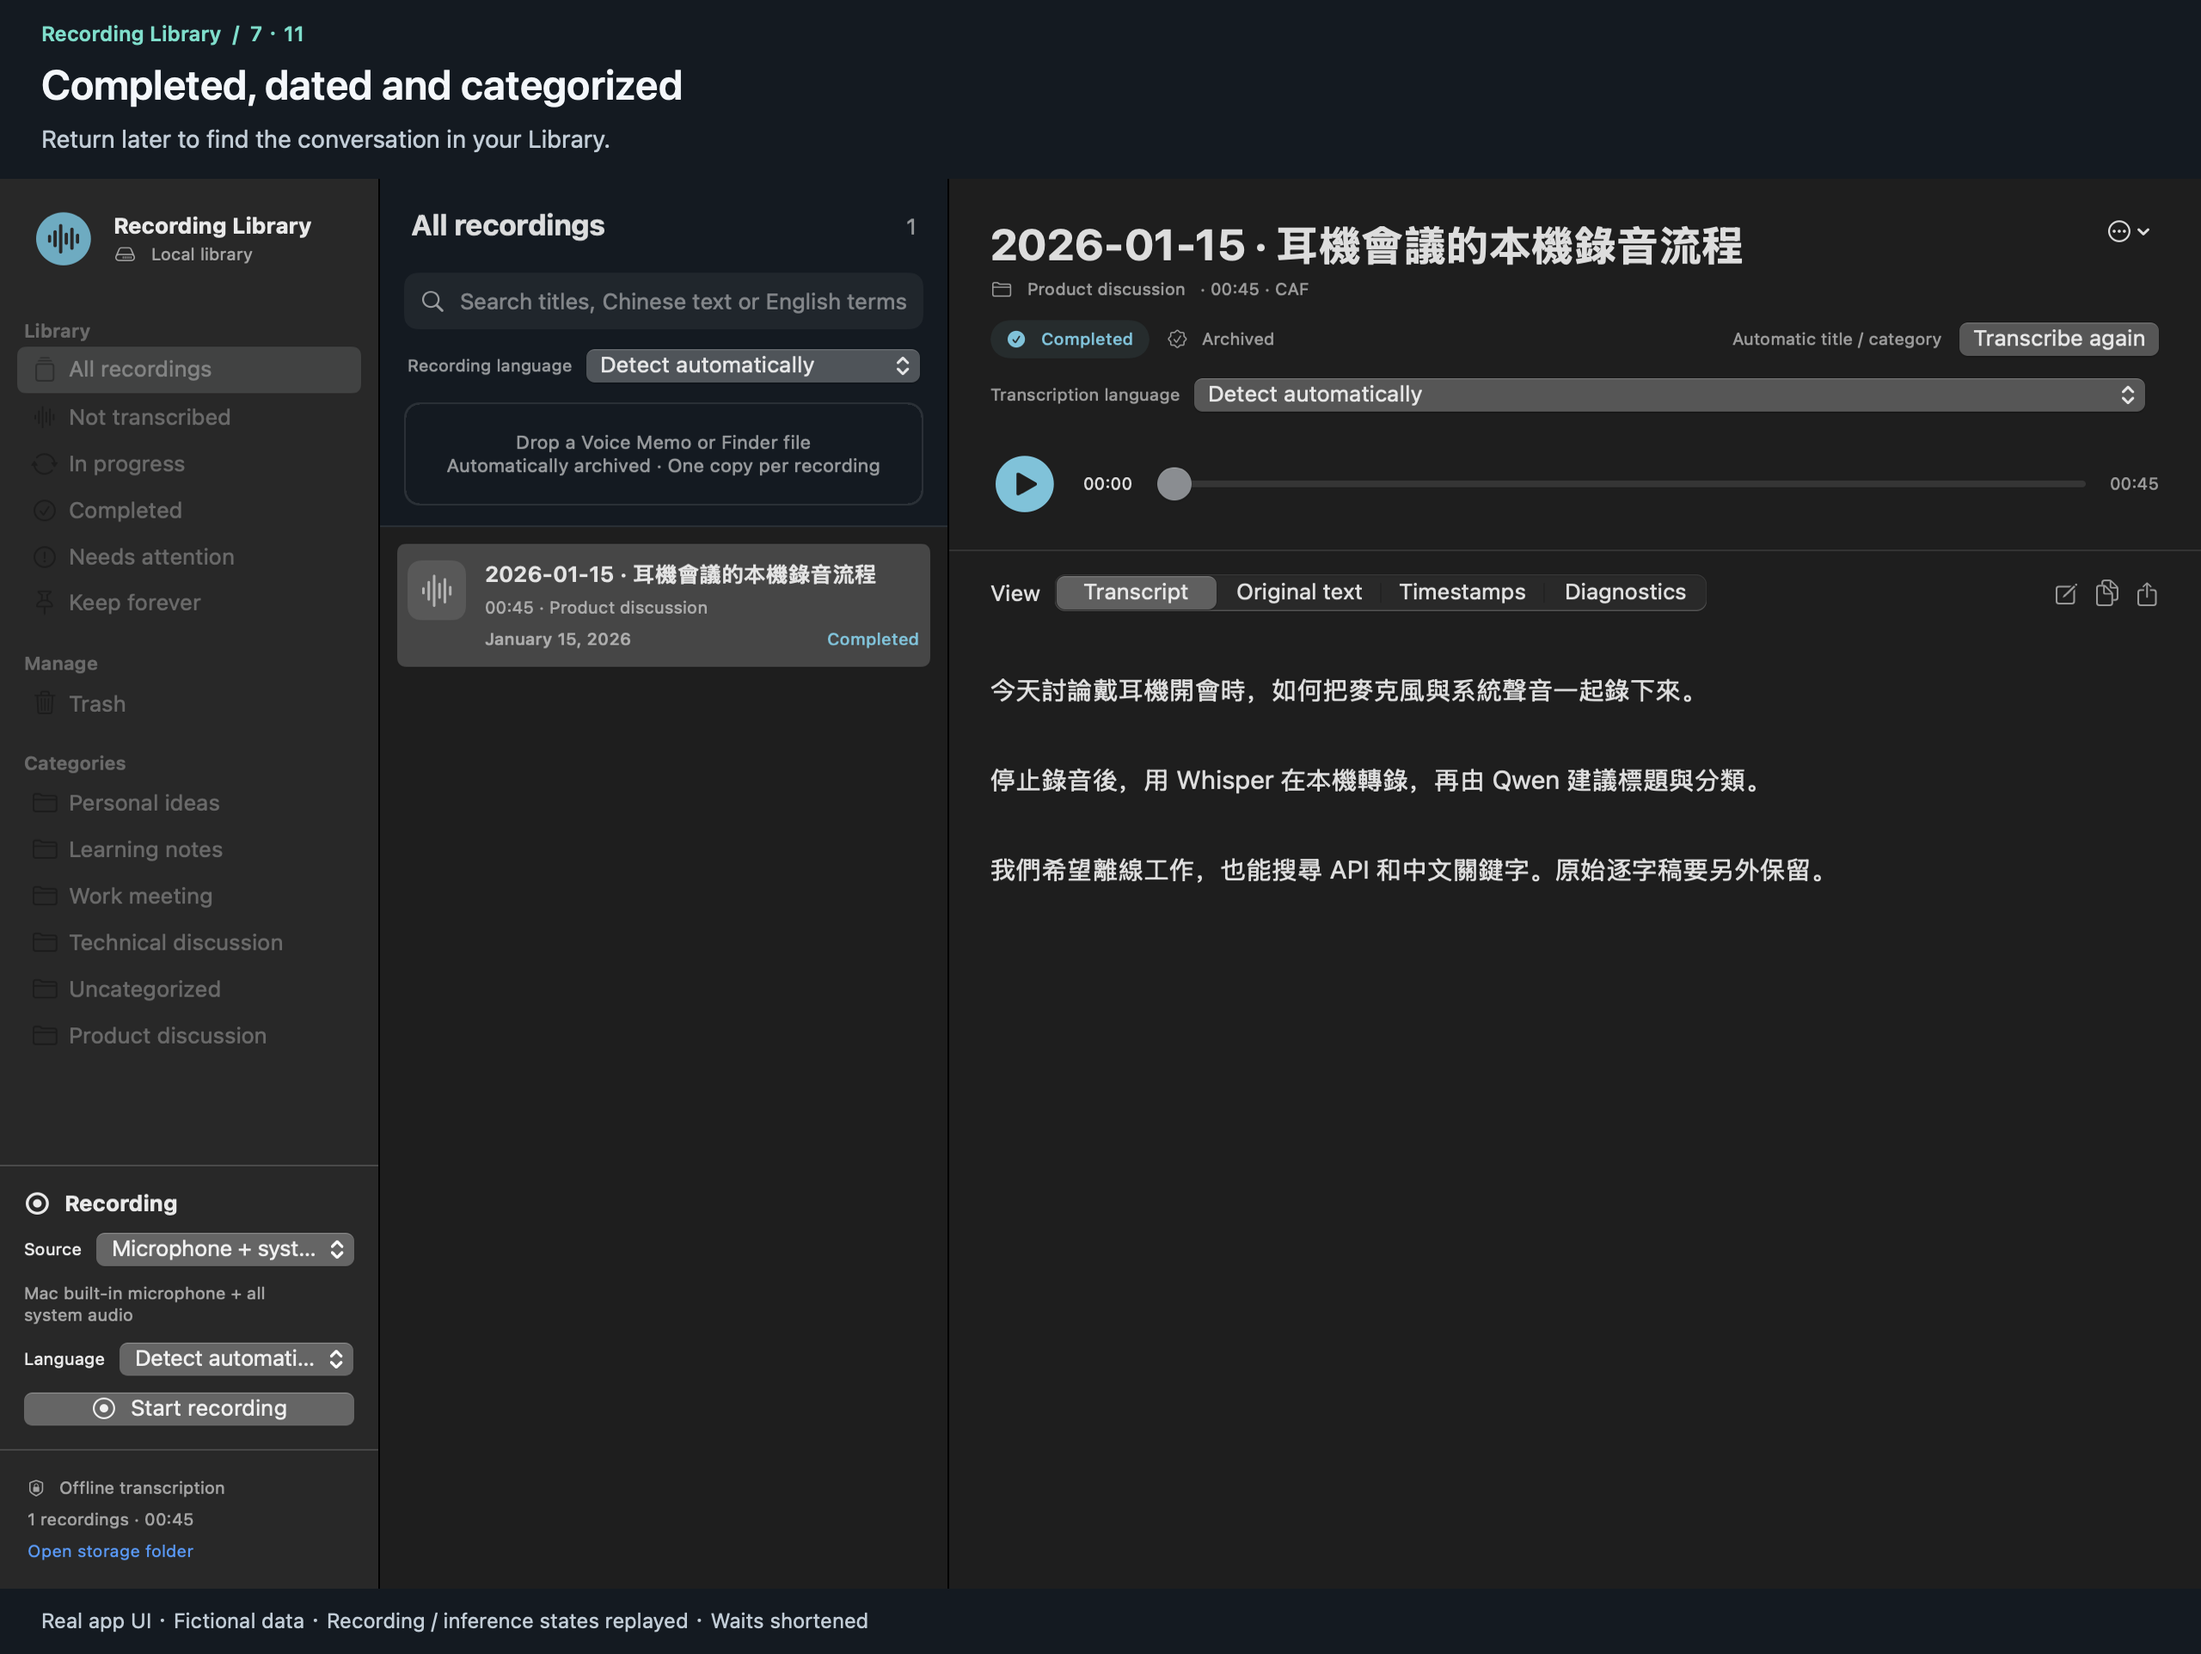
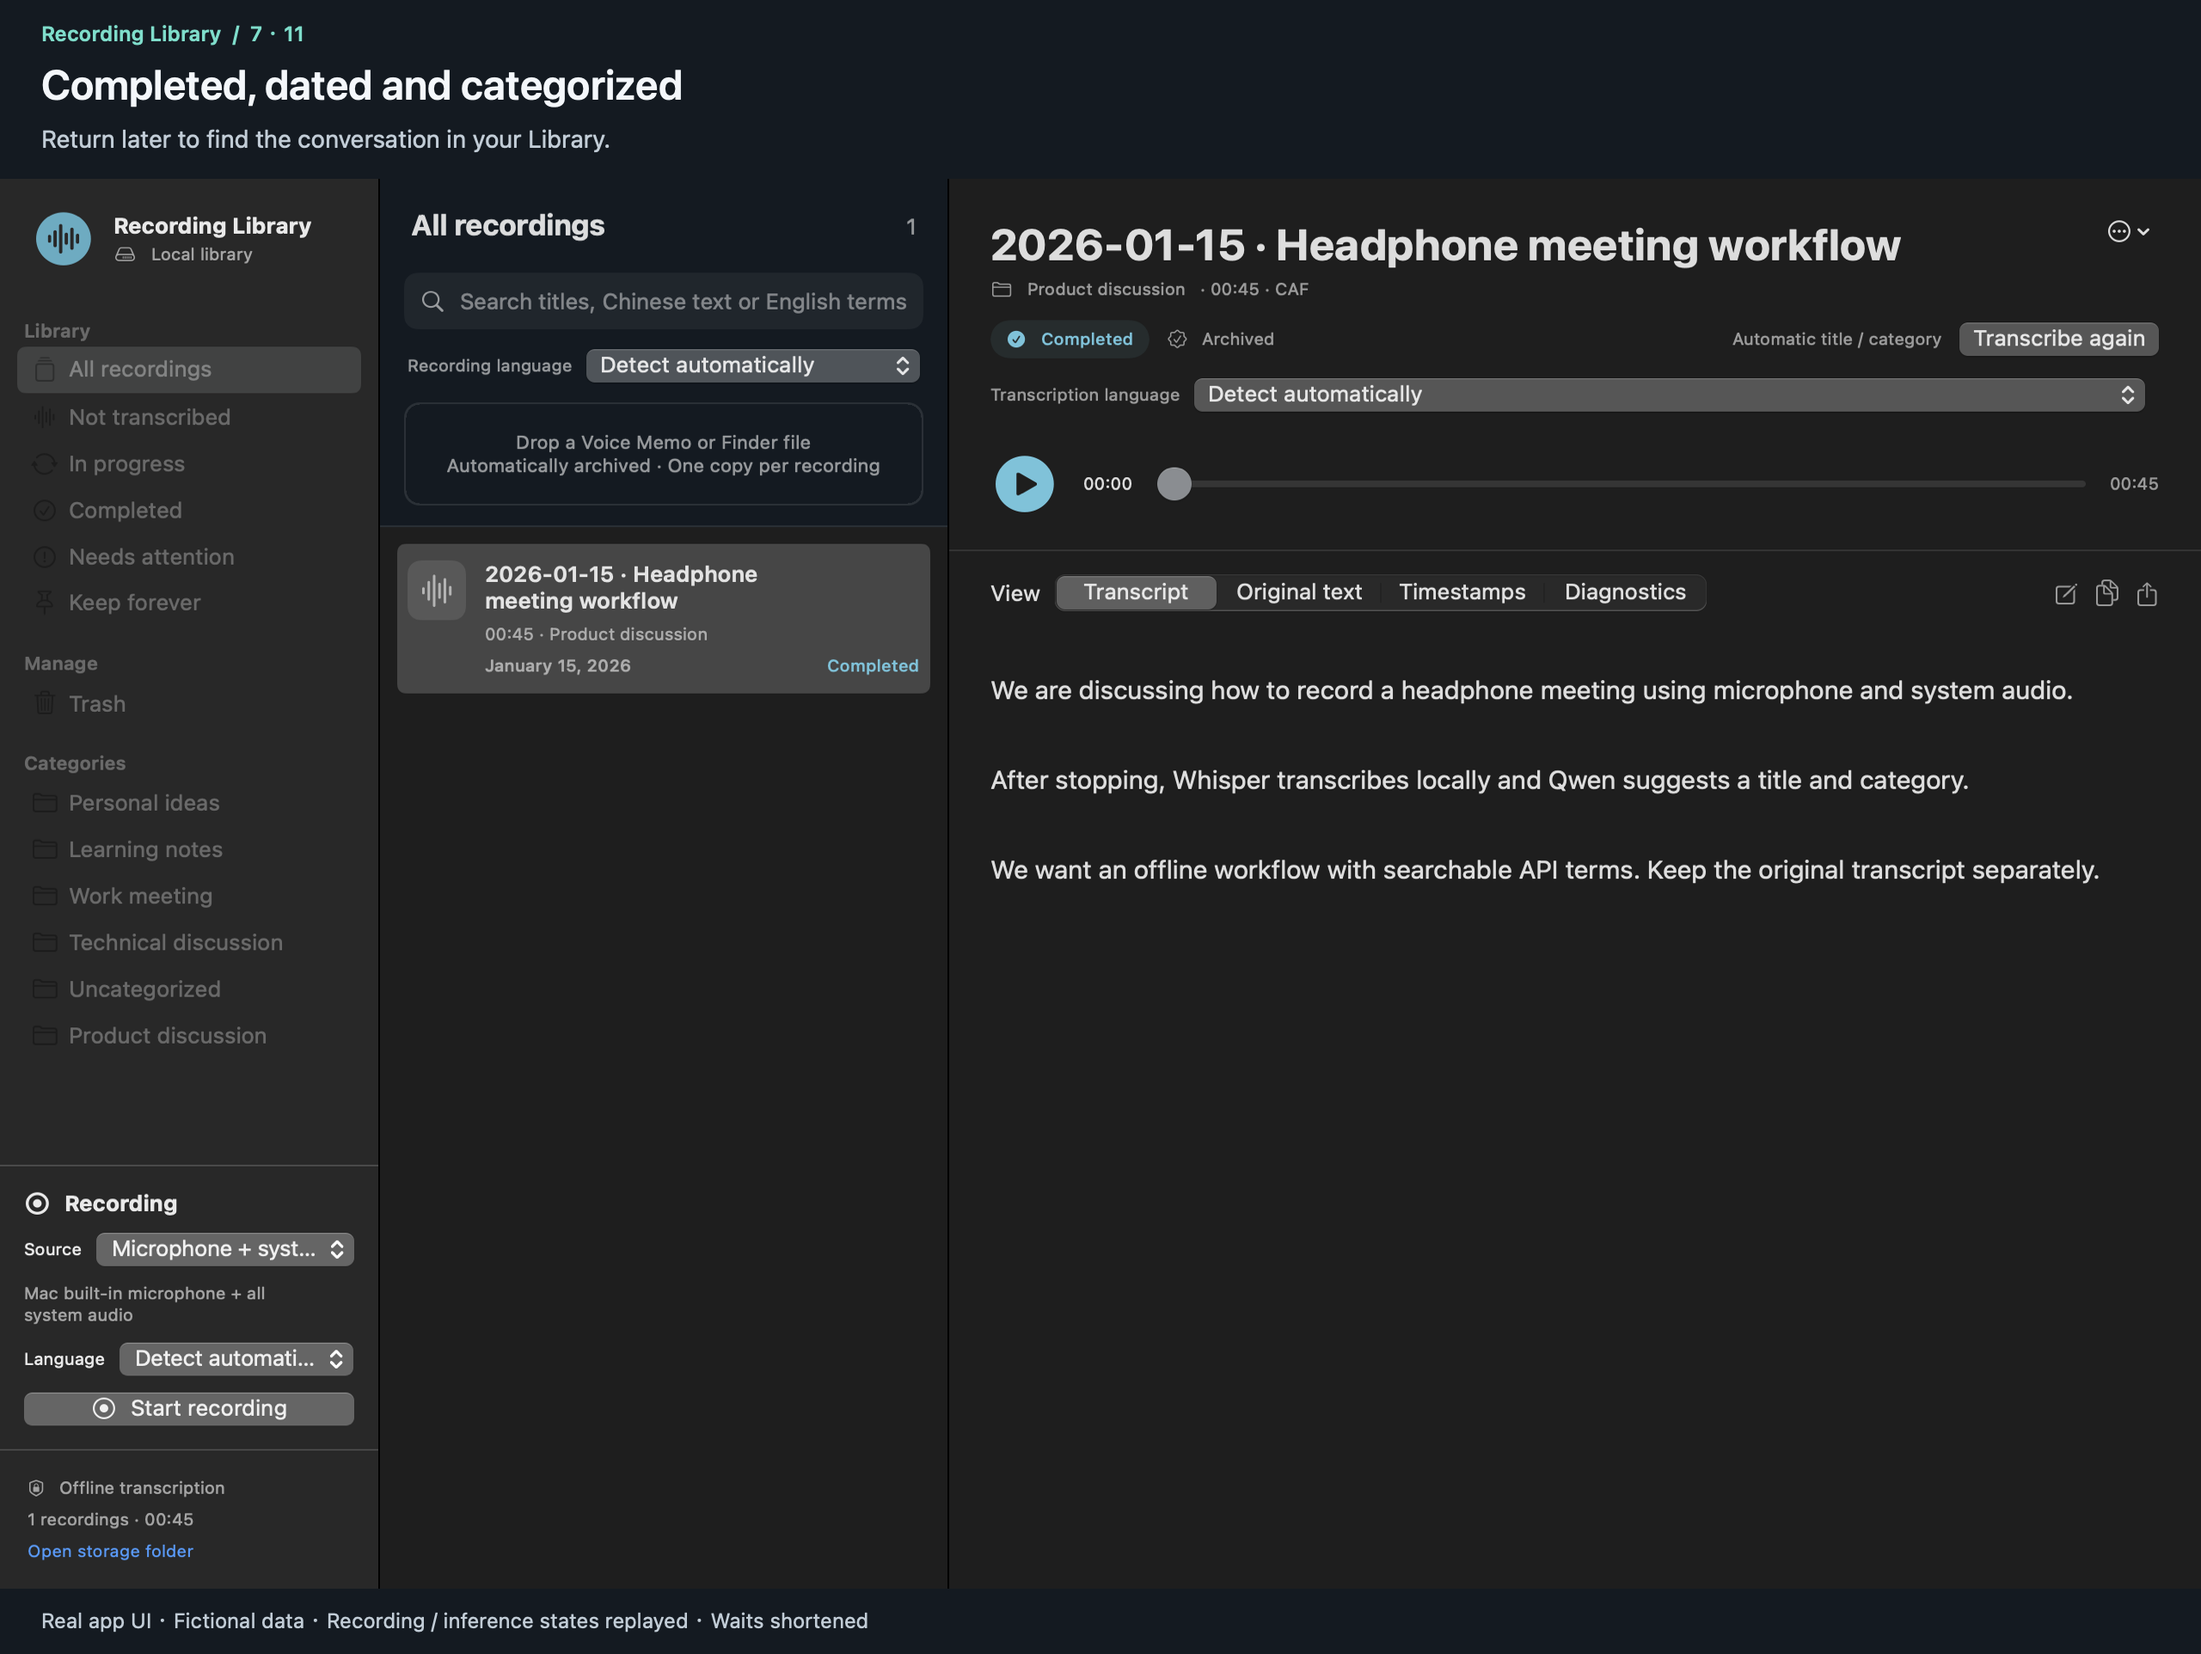
Use English-only fixture content in the English workflow GIF

Changed region(s): [[0.1875, 0.343, 0.9375, 0.4366], [0.4375, 0.4678, 0.9375, 0.5301], [0.5625, 0.1247, 0.875, 0.1559]]

diff --git a/Scripts/WorkflowCapture.swift b/Scripts/WorkflowCapture.swift
@@ -33,11 +33,16 @@ import AVFoundation
     let host:NSHostingView<AnyView>
     var input:FixtureInput?
     var frames:[String]=[]
-    let lines=[
+    var english:Bool {Bundle.main.preferredLocalizations.first == "en"}
+    var lines:[String] {english ? [
+        "We are discussing how to record a headphone meeting using microphone and system audio.",
+        "After stopping, Whisper transcribes locally and Qwen suggests a title and category.",
+        "We want an offline workflow with searchable API terms. Keep the original transcript separately."
+    ] : [
         "今天討論戴耳機開會時，如何把麥克風與系統聲音一起錄下來。",
         "停止錄音後，用 Whisper 在本機轉錄，再由 Qwen 建議標題與分類。",
         "我們希望離線工作，也能搜尋 API 和中文關鍵字。原始逐字稿要另外保留。"
-    ]
+    ]}
     init(root:URL) throws {
         self.root=root
         guard root.path.contains("/.build/workflow."), !FileManager.default.fileExists(atPath:root.path) else {throw LibraryError("Capture requires a fresh isolated .build/workflow directory")}
@@ -79,7 +84,7 @@ import AVFoundation
         await capture.finishForTermination()
         guard var record=engine.recordings.first else {throw LibraryError("Synthetic recording was not archived: "+(capture.errorMessage ?? ""))}
         capture=CaptureController(engine:engine,permission:{true})
-        record.title="2026-01-15 錄音 10-00-00"
+        record.title=english ? "2026-01-15 Recording 10-00-00" : "2026-01-15 錄音 10-00-00"
         record.recordedAt=ISO8601DateFormatter().date(from:"2026-01-15T02:00:00Z")
         record.created=record.recordedAt!
         var attempt=Attempt();attempt.status="running";attempt.loadingMode="incremental";attempt.language="auto"
@@ -100,12 +105,13 @@ import AVFoundation
         record.metadataAttempts=[metadata];try save(record)
         engine.activity="整理標題與分類"
         try await shot("06-naming",selection:record.id)
-        record.title="2026-01-15 · 耳機會議的本機錄音流程";record.category="產品討論"
+        record.title=english ? "2026-01-15 · Headphone meeting workflow" : "2026-01-15 · 耳機會議的本機錄音流程";record.category="產品討論"
         metadata.status="completed";metadata.proposedTitle=record.title;metadata.proposedCategory=record.category;metadata.titleApplied=true;metadata.categoryApplied=true;metadata.finished=Date()
         record.metadataAttempts=[metadata];try save(record)
         engine.activeID=nil;engine.activity="";engine.livePreviews=[:]
         try await shot("07-completed",selection:record.id)
-        record=try engine.store.saveEdit(record,text:text+"\n\n（人工補充：API 是工程術語，原始稿維持不變。）")
+        let editNote=english ? "Editor note: API is a technical term. The original transcript is unchanged." : "（人工補充：API 是工程術語，原始稿維持不變。）"
+        record=try engine.store.saveEdit(record,text:text+"\n\n"+editNote)
         try engine.reload()
         try await shot("08-review",selection:record.id)
         try await shot("09-search",selection:record.id,query:"API")

diff --git a/Scripts/render-demo.swift b/Scripts/render-demo.swift
@@ -15,7 +15,7 @@ let english:[(String,String)]=[
     ("Stop and save when you are finished","Your recording is archived in place, then queued for transcription."),
     ("Whisper transcribes locally","Text starts appearing after audio preparation and model loading."),
     ("Read the growing transcript","Follow the live preview. Words may change until the result is finalized."),
-    ("Qwen suggests a title and category","Optional local naming; the original transcript is kept as it is."),
+    ("Qwen suggests a title and category","Naming currently uses Traditional Chinese; example titles here are translated into English."),
     ("Completed, dated and categorized","Return later to find the conversation in your Library."),
     ("Review, edit, copy or export","Edits are saved separately. Copy the transcript or export Markdown using the upper-right icons."),
     ("Find Chinese phrases or English terms","Search titles and transcript text. Here we search for API."),

diff --git a/Docs/Media/README.md b/Docs/Media/README.md
@@ -1,9 +1,11 @@
 # Native interface walkthroughs
 
-- `workflow.gif` / `workflow-poster.png`: English controls and captions.
-- `workflow-zh-TW.gif` / `workflow-poster-zh-TW.png`: Traditional Chinese controls and captions.
+- `workflow.gif` / `workflow-poster.png`: English controls, captions, fictional transcript, titles and edit notes.
+- `workflow-zh-TW.gif` / `workflow-poster-zh-TW.png`: Traditional Chinese controls, captions and fictional content.
 
 Both use the **production SwiftUI/AppKit view tree**, including `LibraryView`, `CaptureControls`, the transcript viewer and Trash. No app layout, controls or transcript UI are redrawn by the compositor. Captions are placed above the captured view; a disclosure remains below it.
+
+The English fixture uses translated illustrative titles for an English-only walkthrough; the current Qwen naming prompt still produces Traditional Chinese titles. This demo does not add English title generation to the app.
 
 The demo shows Start recording → Stop and save → incremental transcript preview → optional title/category → completed → edit/copy/export controls → search → Trash → restore / Keep forever. It demonstrates the UI with fictional test data; recording and inference states are replayed and waits shortened. It is not a live recording, model output or performance benchmark. The copy/export controls are shown; the script does not overwrite the clipboard or open a Save dialog.
 
